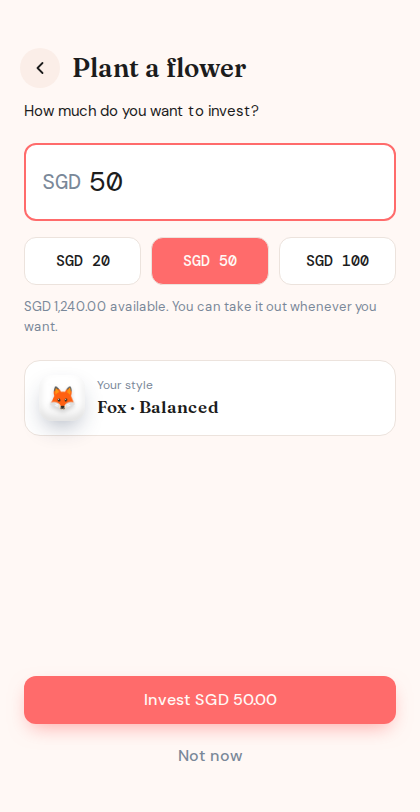
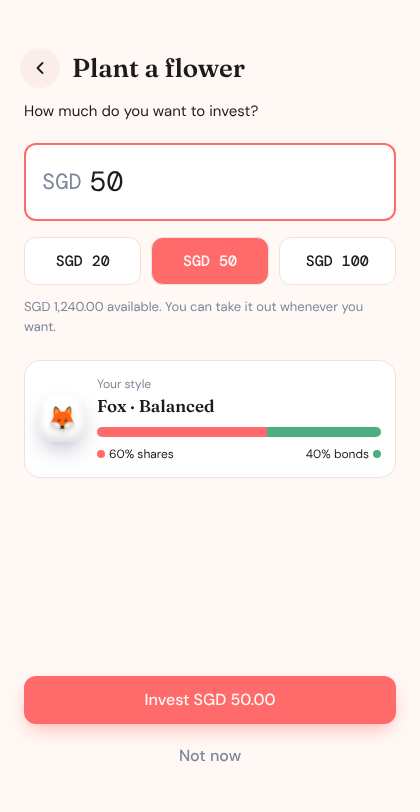
Make the money style set what your money is in
- Each style is now a fixed mix of shares and bonds: Tortoise 30/70,
  Fox 60/40, Rocket 90/10, with plain-language explanations of both
  terms (src/data.js).
- A mix bar shows it on Invest ("What your money is in", with a Change
  link), on the invest-amount screen and in Settings.
- Changing style shows what changes before confirming ("Your mix moves
  from 60% shares and 40% bonds to 90% shares and 10% bonds"), says new
  flowers and existing money both move, and warns of bigger ups and
  downs or a steadier ride. The button reads "Switch to Rocket"; picking
  the current style changes nothing. The switch is logged in Recent.
- The style screen now scrolls, with the button pinned, so it fits
  short phones (iPhone SE); the change panel scrolls into view.
- Onboarding's first style question stays jargon-free.
- Tests: unit tests for the mixes and change text (48 total); e2e for
  switching, keeping the same style and onboarding (28 total).
- Docs: README note, user-story paragraph, new 15-style-change.png;
  refreshed 07, 10 and 13. 02-risk verified pixel-identical to main.

Claude-Session: https://claude.ai/code/session_01BkYcEgUurZmcv8ek2TCNm5

diff --git a/src/screens/Onboarding.jsx b/src/screens/Onboarding.jsx
@@ -1,8 +1,10 @@
-import { useState, useEffect } from 'react';
+import { useState, useEffect, useRef } from 'react';
 import { motion } from 'framer-motion';
 import { IconBubble, Button, H1 } from '../components/ui';
 import { useApp } from '../context';
+import { MixBar } from '../components/MixBar';
 import { RISKS } from '../data';
+import { styleChange } from '../lib/risk';
 
 /* ---- Onboarding ---- */
 export function Splash() {
@@ -41,16 +43,24 @@ export function Welcome() {
 }
 
 export function RiskQuestion({ retake = false }) {
-  const { navigate, back, risk, setRisk } = useApp();
+  const { navigate, back, risk, setRisk, changeStyle } = useApp();
   const [sel, setSel] = useState(retake ? risk : null);
+  const change = retake ? styleChange(risk, sel) : null;
+  // On short phones the "what changes" panel starts below the fold: bring it into view when it appears.
+  const panelRef = useRef(null);
+  useEffect(() => {
+    if (change && panelRef.current) panelRef.current.scrollIntoView({ block: 'nearest', behavior: 'smooth' });
+  }, [sel]);
   return (
     <div className="flex h-full flex-col px-6 pb-safe pt-14" style={{ background: 'var(--bg)' }}>
+      {/* Scrolls on short phones so the button below always stays on screen. */}
+      <div className="-mx-3 flex min-h-0 flex-1 flex-col overflow-y-auto px-3 no-scrollbar">
       {retake && (
         <button onClick={back} className="mb-3 self-start text-[14px]" style={{ color: 'var(--subtle)' }}>← Back</button>
       )}
       <H1 className="text-[28px]">What's your vibe with<br/>money right now?</H1>
       <p className="mt-2 text-[14px]" style={{ color: 'var(--subtle)' }}>Pick the one that feels like you. No wrong answers.</p>
-      <div className="mt-6 flex flex-1 flex-col gap-3" role="radiogroup" aria-label="Money style">
+      <div className="mb-3 mt-6 flex flex-1 flex-col gap-3" role="radiogroup" aria-label="Money style">
         {Object.values(RISKS).map((r) => {
           const on = sel === r.key;
           return (
@@ -69,8 +79,24 @@ export function RiskQuestion({ retake = false }) {
           );
         })}
       </div>
-      <Button disabled={!sel} onClick={() => { setRisk(sel); retake ? back() : navigate('name', 1); }}>
-        This is me
+      {change && (
+        <div ref={panelRef} className="mb-3 rounded-2xl p-4" role="note" aria-label="What changes"
+          style={{ background: 'var(--soft)', border: '1px solid var(--border)' }}>
+          <p className="text-[14px] font-medium" style={{ color: 'var(--text)' }}>{change.text}</p>
+          <div className="mt-3"><MixBar risk={sel} compact /></div>
+          <p className="mt-3 text-[12px]" style={{ color: 'var(--subtle)' }}>
+            New flowers use the new mix, and the money already in your garden moves to it too. No fees.
+            {change.bolder ? ' Expect bigger ups and downs.' : ' Expect a steadier ride that grows more slowly.'}
+          </p>
+        </div>
+      )}
+      </div>
+      <Button disabled={!sel} onClick={() => {
+        if (!retake) { setRisk(sel); navigate('name', 1); return; }
+        if (change) changeStyle(sel);
+        back();
+      }}>
+        {change ? `Switch to ${change.to.label}` : 'This is me'}
       </Button>
     </div>
   );

diff --git a/src/screens/Invest.jsx b/src/screens/Invest.jsx
@@ -2,6 +2,7 @@ import { useState, useEffect } from 'react';
 import { motion } from 'framer-motion';
 import { Confetti } from '../components/Confetti';
 import { Garden } from '../components/Garden';
+import { MixBar } from '../components/MixBar';
 import { IconBubble, Button, Card, ScreenHeader, AmountInput, Hint, ReadLink } from '../components/ui';
 import { useApp } from '../context';
 import { MIN_INVEST, RISKS } from '../data';
@@ -12,7 +13,7 @@ import { fmt } from '../lib/format';
 
 /* ---- Invest flow ---- */
 export function InvestHome() {
-  const { flowers, invested, navigate } = useApp();
+  const { flowers, invested, risk, navigate } = useApp();
   const { nextBloomIn } = gardenSummary(flowers, useNow());
   return (
     <div className="h-full overflow-y-auto no-scrollbar pb-nav" style={{ background: 'var(--bg)' }}>
@@ -35,6 +36,16 @@ export function InvestHome() {
           <div className="mt-3 rounded-xl bg-white/15 p-4">
             <Garden flowers={flowers} big />
           </div>
+        </Card>
+        <Card>
+          <div className="flex items-center justify-between">
+            <p className="font-serif text-[16px] font-semibold" style={{ color: 'var(--text)' }}>
+              What your money is in <span aria-hidden="true">{RISKS[risk].emoji}</span>
+            </p>
+            <button onClick={() => navigate('retakeRisk', 1)} className="text-[13px] font-medium text-coral">Change</button>
+          </div>
+          <p className="mb-3 text-[12px]" style={{ color: 'var(--subtle)' }}>{RISKS[risk].label} · {RISKS[risk].profile}</p>
+          <MixBar risk={risk} />
         </Card>
         <Card onClick={() => navigate('investConfirm', 1)} label="Plant a new flower" className="flex items-center gap-3">
           <IconBubble size={44} tone="leaf">🌸</IconBubble>
@@ -121,9 +132,10 @@ export function InvestConfirm() {
         <div className="mt-6 flex w-full items-center gap-3 rounded-2xl p-3.5"
           style={{ background: 'var(--card)', border: '1px solid var(--border)' }}>
           <IconBubble size={46} tone="glass">{r.emoji}</IconBubble>
-          <div className="text-left">
+          <div className="min-w-0 flex-1 text-left">
             <p className="text-[12px]" style={{ color: 'var(--subtle)' }}>Your style</p>
             <p className="font-serif text-[17px] font-semibold" style={{ color: 'var(--text)' }}>{r.label} · {r.profile}</p>
+            <div className="mt-2"><MixBar risk={risk} compact /></div>
           </div>
         </div>
       </div>

diff --git a/e2e/app.spec.js b/e2e/app.spec.js
@@ -429,3 +429,48 @@ test('no Take money out button when there is nothing to take', async ({ page }) 
   await expect(root(page)).toContainText('Your Garden');
   await expect(page.getByRole('button', { name: 'Take money out' })).toHaveCount(0);
 });
+
+// Money style: what your money is in
+test('your style sets your mix, and switching shows what changes', async ({ page }) => {
+  await onboard(page);
+  await page.goto('./?mix=1#/invest');
+  await expect(page.getByRole('img', { name: '60% shares, 40% bonds' })).toBeVisible();
+  await expect(root(page)).toContainText('A balance of growth and calm.');
+
+  await page.getByRole('button', { name: 'Change', exact: true }).click();
+  await page.getByRole('radio', { name: /Rocket/ }).click();
+  const note = page.getByRole('note', { name: 'What changes' });
+  await expect(note).toContainText('Your mix moves from 60% shares and 40% bonds to 90% shares and 10% bonds.');
+  await expect(note).toContainText('Expect bigger ups and downs.');
+  await tap(page, 'Switch to Rocket');
+
+  await expect(page).toHaveURL(/#\/invest$/);
+  await expect(page.getByRole('img', { name: '90% shares, 10% bonds' })).toBeVisible();
+  await tap(page, 'Plant a flower');
+  await expect(root(page)).toContainText('Rocket · Adventurous');
+  await expect(page.getByRole('img', { name: '90% shares, 10% bonds' })).toBeVisible();
+
+  await page.goto('./?mix=2#/home');
+  await expect(root(page)).toContainText('Style changed to Rocket');
+  await page.goto('./?mix=3#/settings');
+  await expect(root(page)).toContainText('Rocket · Adventurous');
+});
+
+test('keeping the same style changes nothing', async ({ page }) => {
+  await onboard(page);
+  await page.goto('./?mix=4#/settings/style');
+  await page.getByRole('radio', { name: /Rocket/ }).click();
+  await expect(page.getByRole('note', { name: 'What changes' })).toBeVisible();
+  await page.getByRole('radio', { name: /Fox/ }).click();
+  await expect(page.getByRole('note', { name: 'What changes' })).toHaveCount(0);
+  await tap(page, 'This is me');
+  await page.goto('./?mix=5#/home');
+  await expect(root(page)).not.toContainText('Style changed');
+});
+
+test('onboarding stays jargon-free: no mix on the first style question', async ({ page }) => {
+  await page.goto('./#/risk?demo');
+  await page.getByRole('radio', { name: /Rocket/ }).click();
+  await expect(page.getByRole('note', { name: 'What changes' })).toHaveCount(0);
+  await expect(root(page)).not.toContainText('bonds');
+});

diff --git a/src/components/ActivityRow.jsx b/src/components/ActivityRow.jsx
@@ -2,11 +2,12 @@ import { IconBubble } from './ui';
 import { fmt, when } from '../lib/format';
 
 /* ---------- Activity ---------- */
-export const ACTIVITY_ICON = { deposit: '🏦', save: '💰', invest: '🌸', goal: '🎯', withdraw: '💸' };
+export const ACTIVITY_ICON = { deposit: '🏦', save: '💰', invest: '🌸', goal: '🎯', withdraw: '💸', style: '🧭' };
 
 export function ActivityRow({ item }) {
   // Money coming back to the balance (salary, withdrawals) shows as +; money moving out of it as −.
-  const signed = item.type === 'deposit' || item.type === 'withdraw' ? '+' : item.type === 'goal' ? '' : '−';
+  const noAmount = item.type === 'goal' || item.type === 'style';
+  const signed = item.type === 'deposit' || item.type === 'withdraw' ? '+' : noAmount ? '' : '−';
   return (
     <div className="flex items-center gap-3 py-2.5">
       <IconBubble size={38} tone={item.type === 'invest' ? 'leaf' : item.type === 'deposit' || item.type === 'withdraw' ? 'navy' : 'coral'}>
@@ -16,7 +17,7 @@ export function ActivityRow({ item }) {
         <p className="truncate text-[14px] font-medium" style={{ color: 'var(--text)' }}>{item.label}</p>
         <p className="text-[12px]" style={{ color: 'var(--subtle)' }}>{when(item.at)}</p>
       </div>
-      {item.type !== 'goal' && (
+      {!noAmount && (
         <p className="num text-[14px]" style={{ color: signed === '+' ? '#4CAF82' : 'var(--text)' }}>
           {signed}SGD {fmt(item.amount)}
         </p>

diff --git a/src/components/MixBar.jsx b/src/components/MixBar.jsx
@@ -1,0 +1,30 @@
+import { RISKS } from '../data';
+
+// What a style's money is in: a two-part bar with a plain-language legend.
+// `compact` drops the explanation, for small cards.
+export function MixBar({ risk, compact = false }) {
+  const r = RISKS[risk];
+  const { shares, bonds } = r.mix;
+  return (
+    <div>
+      <div className="flex h-2.5 overflow-hidden rounded-full" role="img"
+        aria-label={`${shares}% shares, ${bonds}% bonds`}>
+        <div style={{ width: `${shares}%`, background: '#FF6B6B' }} />
+        <div style={{ width: `${bonds}%`, background: '#4CAF82' }} />
+      </div>
+      <div className="mt-2 flex justify-between text-[12px]" style={{ color: 'var(--text)' }}>
+        <span><span className="mr-1 inline-block h-2 w-2 rounded-full bg-coral" aria-hidden="true" />{shares}% shares</span>
+        <span>{bonds}% bonds<span className="ml-1 inline-block h-2 w-2 rounded-full bg-leaf" aria-hidden="true" /></span>
+      </div>
+      {!compact && (
+        <>
+          <p className="mt-2 text-[13px]" style={{ color: 'var(--text)' }}>{r.mixLine}</p>
+          <p className="mt-1 text-[12px]" style={{ color: 'var(--subtle)' }}>
+            Shares are slices of companies: they can grow more, and move up and down more. Bonds are loans
+            to governments and companies that pay interest: steadier, and they grow more slowly.
+          </p>
+        </>
+      )}
+    </div>
+  );
+}

diff --git a/src/data.js b/src/data.js
@@ -2,10 +2,15 @@
 export const FLOWERS = ['🌸', '🌺', '🌻', '🌼', '💐'];
 export const MIN_INVEST = 10;
 
+// Each style is a fixed mix of shares (slices of companies: can grow more, moves up and down more)
+// and bonds (loans to governments and companies that pay interest: steadier, grow more slowly).
 export const RISKS = {
-  tortoise: { key: 'tortoise', emoji: '🐢', label: 'Tortoise', vibe: 'Play it safe', profile: 'Steady' },
-  fox:      { key: 'fox',      emoji: '🦊', label: 'Fox',      vibe: 'Balanced',     profile: 'Balanced' },
-  rocket:   { key: 'rocket',   emoji: '🚀', label: 'Rocket',   vibe: 'Go bold',      profile: 'Adventurous' },
+  tortoise: { key: 'tortoise', emoji: '🐢', label: 'Tortoise', vibe: 'Play it safe', profile: 'Steady',
+              mix: { shares: 30, bonds: 70 }, mixLine: 'Mostly bonds. Steadier, and grows more slowly.' },
+  fox:      { key: 'fox',      emoji: '🦊', label: 'Fox',      vibe: 'Balanced',     profile: 'Balanced',
+              mix: { shares: 60, bonds: 40 }, mixLine: 'A balance of growth and calm.' },
+  rocket:   { key: 'rocket',   emoji: '🚀', label: 'Rocket',   vibe: 'Go bold',      profile: 'Adventurous',
+              mix: { shares: 90, bonds: 10 }, mixLine: 'Mostly shares. Can grow faster, with bigger ups and downs.' },
 };
 
 export const ARTICLES = {

diff --git a/src/App.jsx b/src/App.jsx
@@ -137,6 +137,11 @@ function App() {
     setBalance((b) => roundMoney(b - amt)); setInvested((i) => roundMoney(i + amt));
     log('invest', 'Planted a flower', amt);
   }, []);
+  // Switching style moves future and existing money to the new mix (instantly, in this prototype).
+  const changeStyle = useCallback((key) => {
+    setRisk(key);
+    log('style', `Style changed to ${RISKS[key].label}`);
+  }, []);
   // Taking money out: it goes back to the balance straight away.
   const withdrawSavings = useCallback((amt) => {
     setSavings((s) => roundMoney(s - amt)); setBalance((b) => roundMoney(b + amt));
@@ -160,7 +165,7 @@ function App() {
   }, []);
 
   const ctx = {
-    name, setName, balance, savings, addToSavings, withdrawSavings, risk, setRisk, flowers, plantFlower, invested, withdrawInvested,
+    name, setName, balance, savings, addToSavings, withdrawSavings, risk, setRisk, changeStyle, flowers, plantFlower, invested, withdrawInvested,
     goal, setGoalTo, activity, seenAt, markSeen, overlayEl, theme, setTheme, onboarded, current: { screen: current, tab },
     navigate, back, goTab, resetTo, finishOnboarding, resetDemo,
   };

diff --git a/src/lib/risk.test.js b/src/lib/risk.test.js
@@ -1,0 +1,29 @@
+import { describe, expect, it } from 'vitest';
+import { RISKS } from '../data';
+import { mixText, styleChange } from './risk';
+
+describe('style mixes', () => {
+  it('always add up to 100%', () => {
+    for (const r of Object.values(RISKS)) expect(r.mix.shares + r.mix.bonds).toBe(100);
+  });
+  it('get bolder from Tortoise to Rocket', () => {
+    expect(RISKS.tortoise.mix.shares).toBeLessThan(RISKS.fox.mix.shares);
+    expect(RISKS.fox.mix.shares).toBeLessThan(RISKS.rocket.mix.shares);
+  });
+  it('read in plain words', () => {
+    expect(mixText('fox')).toBe('60% shares and 40% bonds');
+  });
+});
+
+describe('styleChange', () => {
+  it('describes a switch and its direction', () => {
+    const c = styleChange('fox', 'rocket');
+    expect(c.text).toBe('Your mix moves from 60% shares and 40% bonds to 90% shares and 10% bonds.');
+    expect(c.bolder).toBe(true);
+    expect(styleChange('fox', 'tortoise').bolder).toBe(false);
+  });
+  it('is null when nothing changes', () => {
+    expect(styleChange('fox', 'fox')).toBeNull();
+    expect(styleChange('fox', 'nope')).toBeNull();
+  });
+});

diff --git a/src/screens/Settings.jsx b/src/screens/Settings.jsx
@@ -2,6 +2,7 @@ import { useState, useEffect } from 'react';
 import { AnimatePresence } from 'framer-motion';
 import { Toast } from '../components/overlays';
 import { IconBubble, Card, ScreenHeader } from '../components/ui';
+import { MixBar } from '../components/MixBar';
 import { useApp } from '../context';
 import { RISKS, THEMES } from '../data';
 
@@ -64,6 +65,7 @@ export function Settings() {
             <div className="flex-1">
               <p className="text-[12px]" style={{ color: 'var(--subtle)' }}>Your money style</p>
               <p className="font-serif text-[16px] font-semibold" style={{ color: 'var(--text)' }}>{r.label} · {r.profile}</p>
+              <div className="mt-2"><MixBar risk={risk} compact /></div>
             </div>
             <button onClick={() => navigate('retakeRisk', 1)} className="rounded-full px-3 py-1.5 text-[13px] font-medium text-coral"
               style={{ border: '1px solid #FF6B6B' }}>Retake</button>

diff --git a/src/lib/risk.js b/src/lib/risk.js
@@ -1,0 +1,18 @@
+import { RISKS } from '../data';
+
+// "60% shares and 40% bonds"
+export function mixText(key) {
+  const { shares, bonds } = RISKS[key].mix;
+  return `${shares}% shares and ${bonds}% bonds`;
+}
+
+// What changes when someone switches style, or null when they keep the same one.
+export function styleChange(fromKey, toKey) {
+  if (!RISKS[fromKey] || !RISKS[toKey] || fromKey === toKey) return null;
+  const from = RISKS[fromKey].mix, to = RISKS[toKey].mix;
+  return {
+    from: RISKS[fromKey], to: RISKS[toKey],
+    text: `Your mix moves from ${from.shares}% shares and ${from.bonds}% bonds to ${to.shares}% shares and ${to.bonds}% bonds.`,
+    bolder: to.shares > from.shares,
+  };
+}

diff --git a/README.md b/README.md
@@ -135,6 +135,14 @@ between screens inside the app.
 - Tappable cards work with the keyboard (Tab, then Enter or Space), and animations follow the
   system "reduce motion" setting (no confetti or slides when it is on).
 - The copy avoids financial jargon. Where a term is needed, it is followed by a plain-language line.
+- Money style sets what your money is in. Each style is a fixed mix of shares (slices of
+  companies: can grow more, and move more) and bonds (loans that pay interest: steadier, and they
+  grow more slowly): 🐢 Tortoise 30/70, 🦊 Fox 60/40, 🚀 Rocket 90/10. The mix shows as a bar on
+  Invest, the invest-amount screen and Settings. Changing style (Invest > Change, or Settings >
+  Retake) shows "Your mix moves from 60% shares and 40% bonds to 90% shares and 10% bonds" before you
+  confirm, explains that new flowers and existing money both move to the new mix, and logs the
+  change in Recent. The first onboarding question stays jargon-free: no mix there. The mixes live
+  in `src/data.js` and the comparison in `src/lib/risk.js`.
 - Goal-linked suggestions: when a goal has a "by when" month, the invest-amount screen offers a
   gentle tip. A goal 3 or more years away gets "about SGD X a month would get you there, before any
   growth" (what's left divided by the months remaining, rounded up, never below the SGD 10

diff --git a/docs/user-story-maya.md b/docs/user-story-maya.md
@@ -163,6 +163,14 @@ paragraphs, no jargon, one idea per paragraph. Later she pokes around Settings, 
 the theme to Dark for night reading, and sees her fox profile with the option to retake
 the question whenever her comfort changes.
 
+Her fox style isn't just a label. Invest shows what her money is in: 60% shares, 40% bonds, with
+one plain line on what each means. When she wonders about going bolder and picks the rocket,
+VELA shows what would change before anything does: her mix would move to 90% shares and 10% bonds,
+her existing money would move too, and she should expect bigger ups and downs. She decides to
+stay a fox for now.
+
+![Changing style from Fox to Rocket, showing the mix moving from 60/40 to 90/10](screenshots/15-style-change.png)
+
 Learn has six short reads. Three of them show up right where Maya needs them: under her
 Savings Pot she finds "Why a rainy-day fund comes first", and under her garden, "Dips are
 normal". "Small amounts grow" shows her, with an example, why starting with SGD 50 at 23 beats
